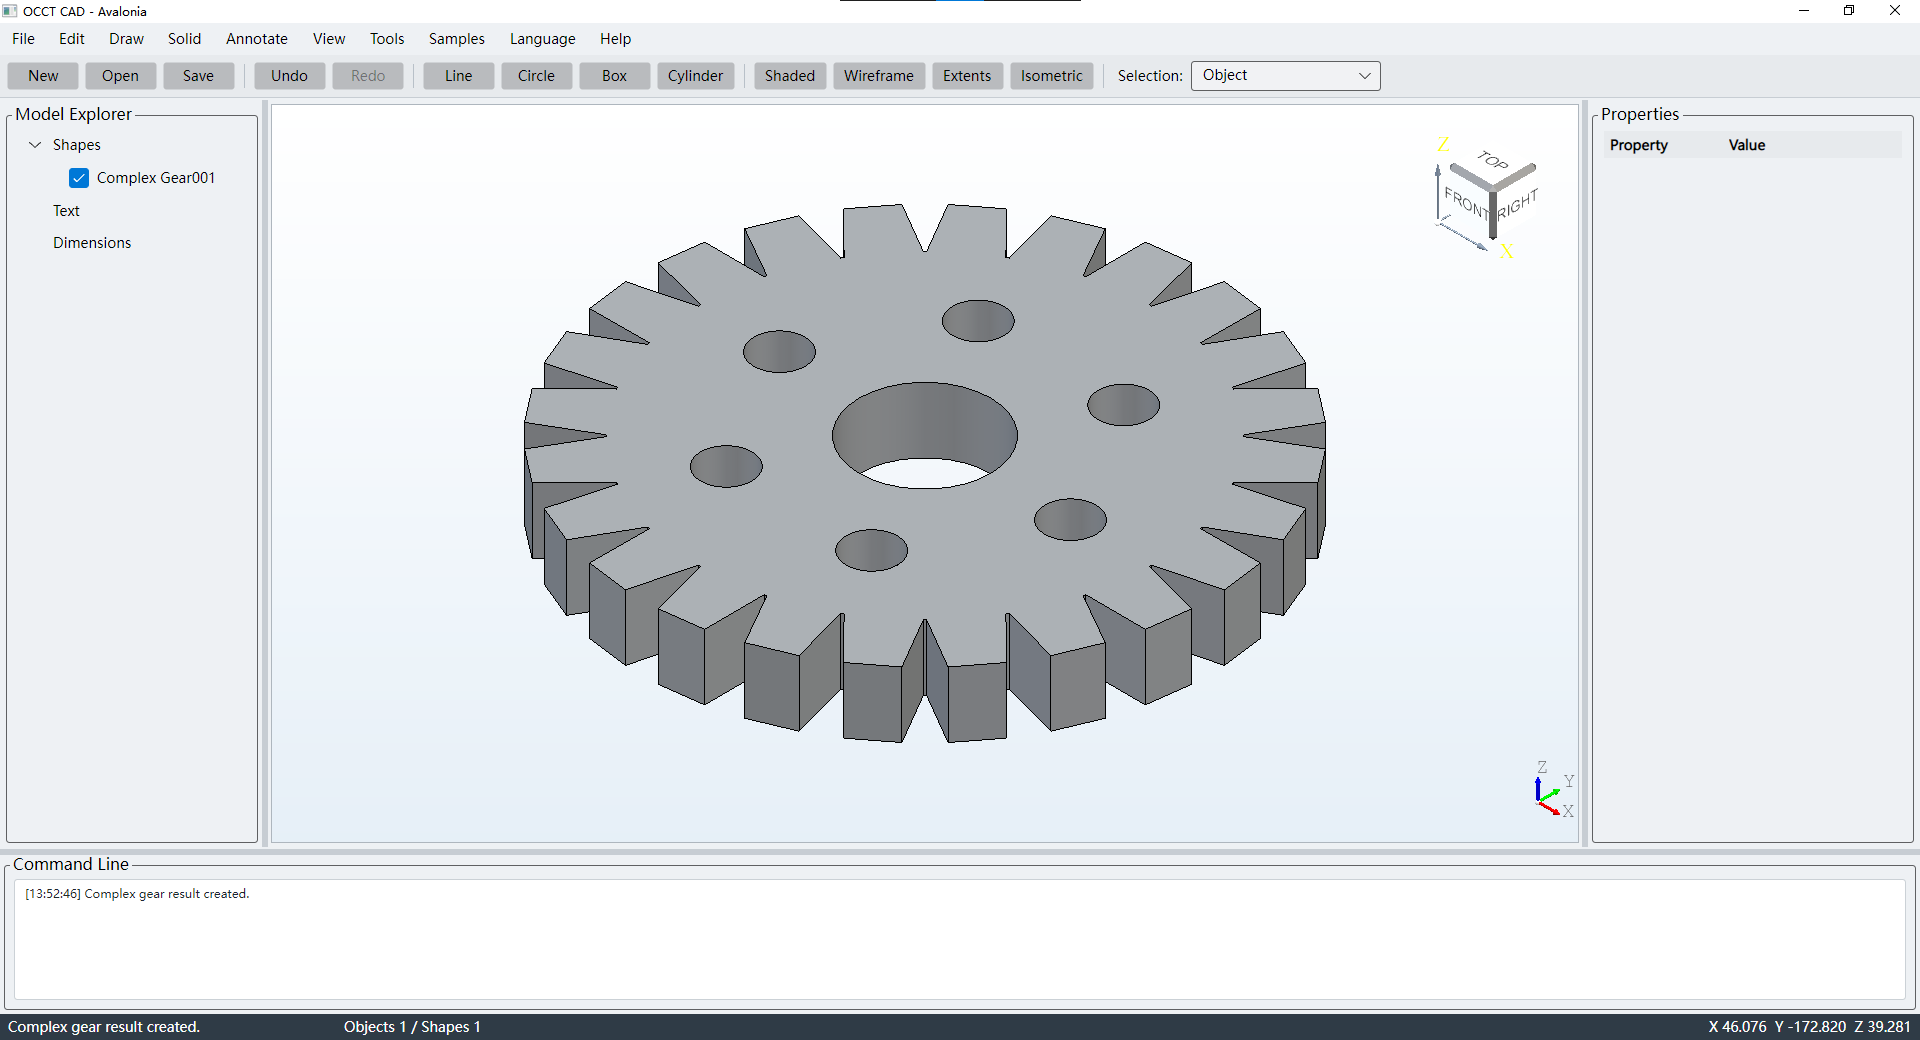
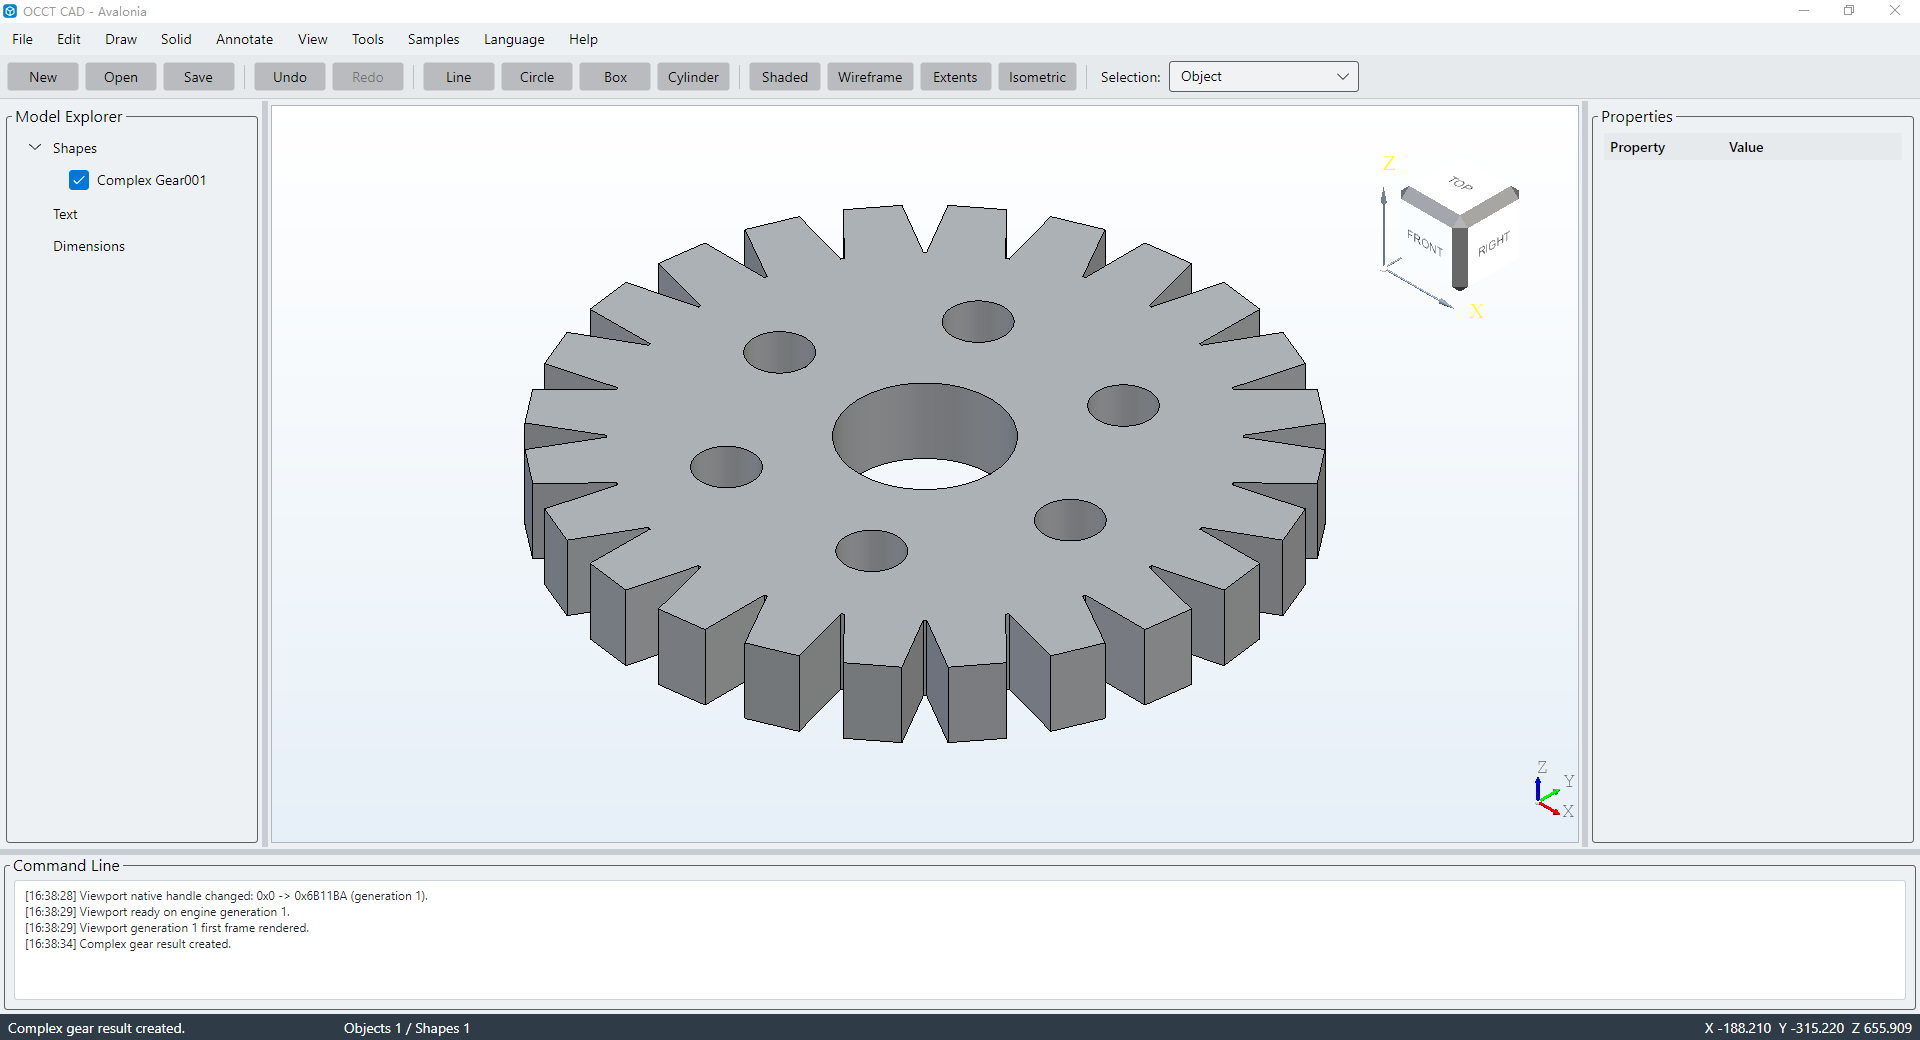
Adjust default ViewCube layout and refresh Demo preview assets

diff --git a/src/OcctDemo.Avalonia/MainWindow.Highlight.cs b/src/OcctDemo.Avalonia/MainWindow.Highlight.cs
@@ -17,8 +17,8 @@ public sealed partial class MainWindow
     private OcctCornerPosition _triedronPosition = OcctCornerPosition.LeftLower;
     private OcctCornerPosition _viewCubePosition = OcctCornerPosition.RightUpper;
     private bool _viewCubeVisible = true;
-    private int _viewCubeSize = 90;
-    private int _viewCubeOffset = 10;
+    private int _viewCubeSize = 72;
+    private int _viewCubeOffset = 82;
 
     private void SetDisplayStyle(OcctDisplayMode mode)
     {

diff --git a/src/OcctDemo.WinForms/MainForm.Highlight.cs b/src/OcctDemo.WinForms/MainForm.Highlight.cs
@@ -12,8 +12,8 @@ public sealed partial class MainForm
     private OcctCornerPosition _triedronPosition = OcctCornerPosition.LeftLower;
     private OcctCornerPosition _viewCubePosition = OcctCornerPosition.RightUpper;
     private bool _viewCubeVisible = true;
-    private int _viewCubeSize = 90;
-    private int _viewCubeOffset = 10;
+    private int _viewCubeSize = 72;
+    private int _viewCubeOffset = 82;
 
     private void SetDisplayStyle(OcctDisplayMode mode)
     {

diff --git a/src/OcctDemo.Wpf/MainWindow.Highlight.cs b/src/OcctDemo.Wpf/MainWindow.Highlight.cs
@@ -15,8 +15,8 @@ public partial class MainWindow
     private OcctCornerPosition _triedronPosition = OcctCornerPosition.LeftLower;
     private OcctCornerPosition _viewCubePosition = OcctCornerPosition.RightUpper;
     private bool _viewCubeVisible = true;
-    private int _viewCubeSize = 90;
-    private int _viewCubeOffset = 10;
+    private int _viewCubeSize = 72;
+    private int _viewCubeOffset = 82;
 
     private void SetDisplayStyle(OcctDisplayMode mode)
     {
